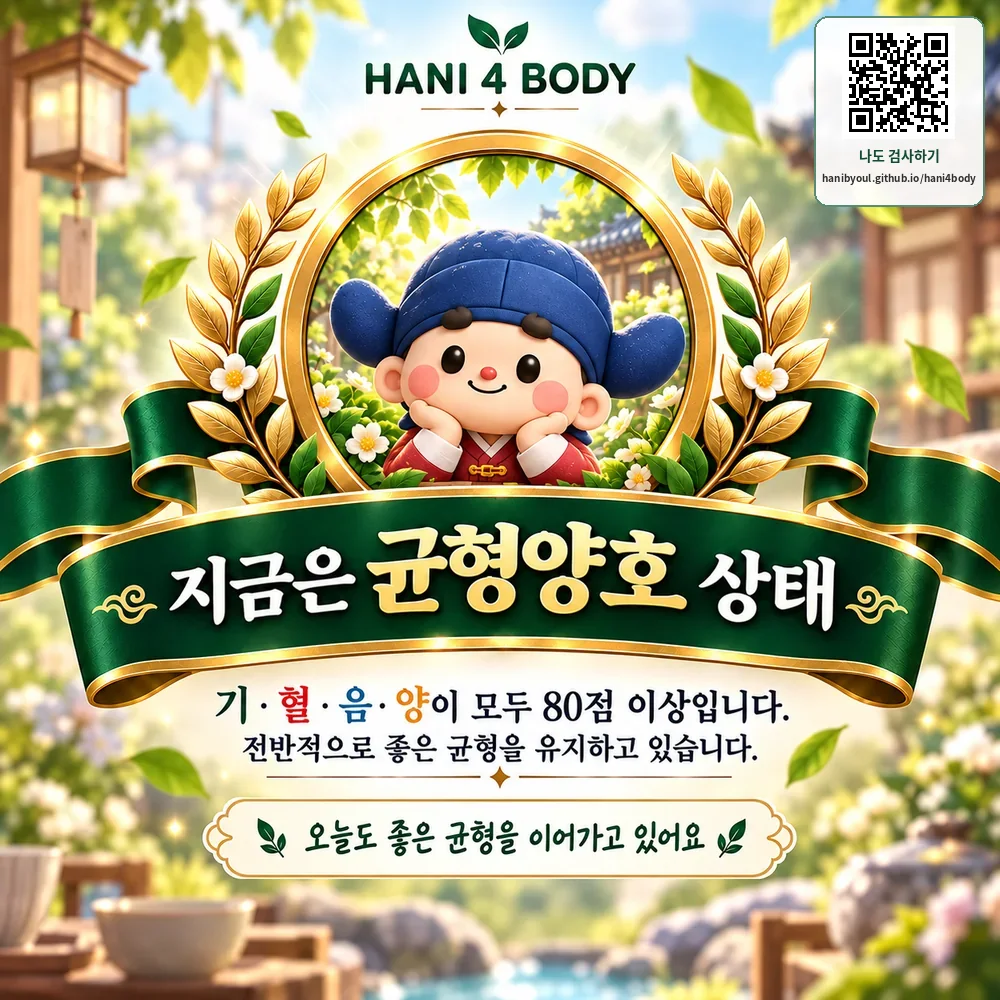
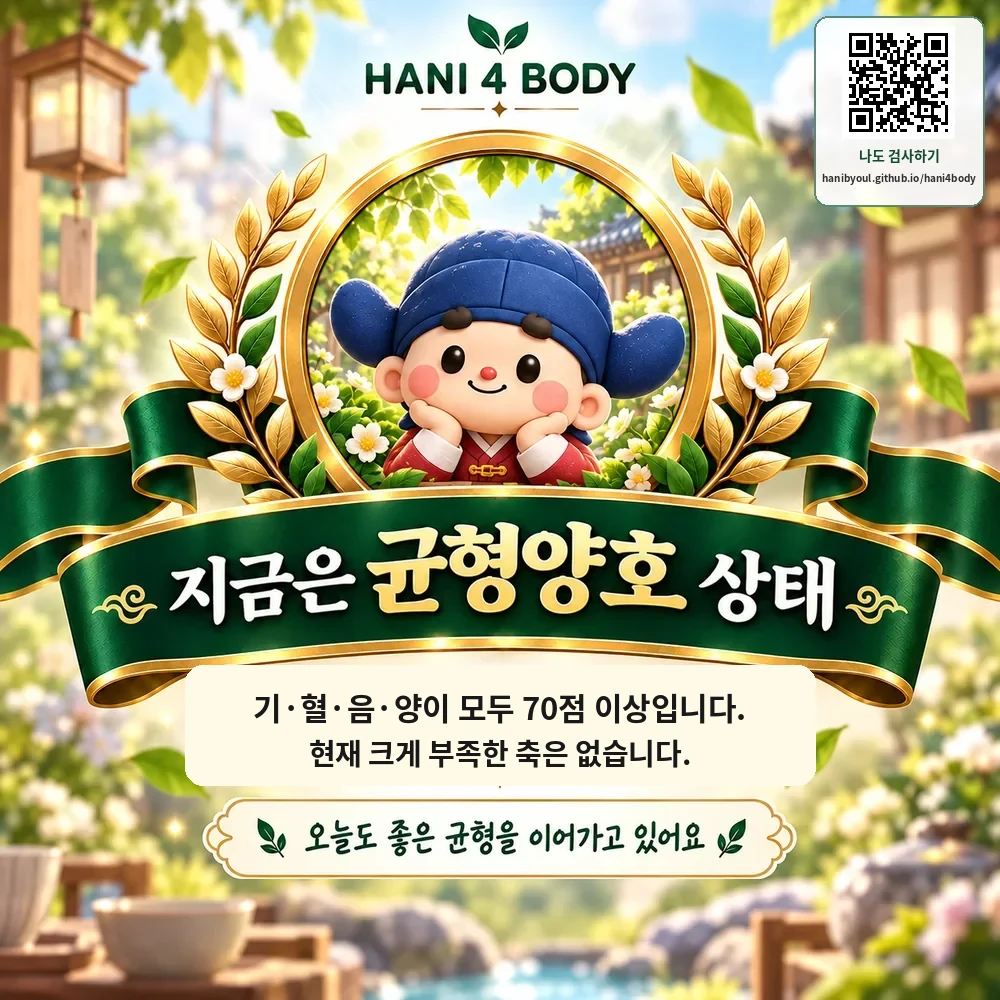
Add files via upload

Changed region(s): [[0.186, 0.651, 0.837, 0.806], [0.775, 0.713, 0.837, 0.806]]

diff --git a/index.html b/index.html
@@ -151,6 +151,26 @@ h3{font-size:18px;margin:18px 0 8px}
 .twoMin{display:inline-block;margin:10px auto 8px;padding:9px 17px;border-radius:999px;background:#151515;color:#fff;font-weight:900;font-size:16px}
 .quickNote{text-align:center;color:var(--muted);margin:8px auto 18px;line-height:1.6}
 .compactForm{margin-top:10px}.startHero{font-size:20px;padding:16px;margin-top:14px}
+
+.forceExplain{
+  margin:14px 0 18px;border:1px solid var(--line);border-radius:18px;background:#faf9f6;
+  padding:13px 15px;
+}
+.forceExplain summary{cursor:pointer;font-weight:900;font-size:15px}
+.forceExplainGrid{display:grid;grid-template-columns:1fr 1fr;gap:9px;margin-top:12px}
+.forceExplainItem{border-radius:14px;padding:11px 12px;font-size:13px;line-height:1.55;border:1px solid var(--line);background:#fff}
+.forceExplainItem b{display:block;font-size:15px;margin-bottom:3px}
+.forceExplainItem.qiE b{color:var(--qi)}
+.forceExplainItem.bloodE b{color:var(--blood)}
+.forceExplainItem.yinE b{color:var(--yin)}
+.forceExplainItem.yangE b{color:var(--yang)}
+.forceConceptNote{font-size:12px;line-height:1.55;color:var(--muted);margin:10px 2px 0}
+.resultAxisExplain{display:grid;grid-template-columns:1fr 1fr;gap:9px;margin:10px 0 4px}
+.resultAxisExplain .forceExplainItem{font-size:13px}
+@media(max-width:560px){
+  .forceExplainGrid,.resultAxisExplain{grid-template-columns:1fr}
+}
+
 .researchTeaser{margin-top:18px;padding:14px 16px;border:1px solid var(--line);border-radius:18px;background:#faf9f6;line-height:1.55}
 .researchTeaser details{margin-top:8px}.researchTeaser summary{cursor:pointer;font-weight:900}
 .compactPurpose{margin-top:12px}.compactDisclaimer{font-size:12px;line-height:1.55;margin-top:16px}
@@ -244,6 +264,17 @@ h3{font-size:18px;margin:18px 0 8px}
     <div class="twoMin">24문항 · 약 2분</div>
     <p class="quickNote">최근 2주 상태를 보는 검사입니다. <b>타고난 체질검사가 아닙니다.</b></p>
 
+    <details class="forceExplain">
+      <summary>기·혈·음·양이란?</summary>
+      <div class="forceExplainGrid">
+        <div class="forceExplainItem qiE"><b>기(氣) · 활력과 회복력</b>몸을 움직이고 버티게 하는 힘을 살펴봅니다.</div>
+        <div class="forceExplainItem bloodE"><b>혈(血) · 영양과 안정</b>몸을 적시고 영양하며 안정시키는 기반을 살펴봅니다.</div>
+        <div class="forceExplainItem yinE"><b>음(陰) · 촉촉함과 회복 자원</b>몸을 촉촉하고 안정되게 유지하는 자원을 살펴봅니다.</div>
+        <div class="forceExplainItem yangE"><b>양(陽) · 온기와 추진력</b>몸을 따뜻하게 하고 기능을 밀어주는 힘을 살펴봅니다.</div>
+      </div>
+      <div class="forceConceptNote">기·혈·음·양은 하나의 장기나 검사수치와 1:1로 대응되는 개념이 아니라, 여러 증상과 신체 상태를 종합해서 바라보는 한의학적 기능 개념입니다.</div>
+    </details>
+
     <div class="formRow compactForm">
       <div class="field">
         <label for="ageGroupSelect">연령대</label>
@@ -270,7 +301,7 @@ h3{font-size:18px;margin:18px 0 8px}
         <summary>이 검사는 어떻게 만들었나요? · 근거 보기</summary>
         <div class="purpose compactPurpose">
           HANI 4 BODY는 한의학의 기(氣)·혈(血)·음(陰)·양(陽) 관점에서 최근 상태를 살펴보도록 만든 대중용 자가점검 도구입니다.
-          질병 진단이나 기존 검증 설문을 그대로 복제한 검사는 아닙니다.
+          질병 진단이나 기존 검증 설문을 그대로 복제한 검사는 아닙니다. 흔하고 중복되는 증상은 영향력을 낮추고, 비교적 특징적인 증상은 조금 더 반영하는 가중 점수 방식을 사용합니다.
         </div>
         <ol>
           <li>Kim J, Ku B, Kim KH. <b>Validation of the Qi Blood Yin Yang Deficiency Questionnaire on chronic fatigue.</b> Chinese Medicine. 2016. <a href="https://link.springer.com/article/10.1186/s13020-016-0092-y" target="_blank">논문 보기</a></li>
@@ -334,9 +365,17 @@ h3{font-size:18px;margin:18px 0 8px}
       <div class="metric yang">양(陽)<b id="yangScore"></b><small id="yangLabel"></small></div>
     </div>
 
+    <div class="resultAxisExplain">
+      <div class="forceExplainItem qiE"><b>기(氣)</b>활력·체력·회복력의 경향</div>
+      <div class="forceExplainItem bloodE"><b>혈(血)</b>영양·윤택함·안정의 경향</div>
+      <div class="forceExplainItem yinE"><b>음(陰)</b>촉촉함·진정·회복 자원의 경향</div>
+      <div class="forceExplainItem yangE"><b>양(陽)</b>온기·활성·추진력의 경향</div>
+    </div>
+
     <div class="interpret">
       <strong>내 결과 해석</strong>
       <p class="resultSummary" id="resultSummary"></p>
+      <div class="muted" id="axisPlainSummary" style="margin-top:10px"></div>
     </div>
 
     <div class="compareBox hidden" id="populationBox">
@@ -442,8 +481,33 @@ const observationQuestions = [
 
 const symptomOptions = ['전혀 없다','드물다','가끔 있다','자주 있다','거의 항상 있다'];
 
+const symptomWeights = [
+  1.0, // 1  기: 쉽게 기운 빠짐
+  1.5, // 2  양: 손발 냉감 + 온열 호전
+  1.0, // 3  혈: 눈 피로
+  1.5, // 4  음: 야간 발한
+  1.5, // 5  기: 활동 시 숨참·힘 빠짐
+  1.0, // 6  혈: 저림·쥐
+  1.5, // 7  양: 찬 음식 후 불편·묽은 변
+  1.5, // 8  음: 손발·가슴 화끈거림
+  1.5, // 9  기: 낮의 이유 없는 땀
+  1.0, // 10 혈: 어지럼·아찔함
+  1.0, // 11 음: 입·목 건조
+  1.5, // 12 양: 아랫배·허리 냉감 + 온열 호전
+  0.5, // 13 기: 아침 개운하지 않음
+  0.5, // 14 혈: 입면곤란·꿈 많음
+  0.5, // 15 음: 야간 입·목 건조 (11번과 중복 완화)
+  1.0, // 16 양: 허리·무릎 시큰·무력
+  0.5, // 17 기: 평소 일에도 쉽게 지침 (1번과 중복 완화)
+  1.0, // 18 혈: 피부 건조·윤기 저하
+  1.0, // 19 음: 마른 변
+  0.5, // 20 양: 따뜻한 음식이 더 편함
+  1.0  // 21 기: 감기·몸살 후 회복 더딤
+];
+
+
 const typeMap = {
-  'BAL80':['지금은 균형양호 상태','기·혈·음·양이 모두 80점 이상입니다. 전반적으로 좋은 균형을 유지하고 있습니다.'],
+  'BAL80':['지금은 균형양호 상태','기·혈·음·양이 모두 70점 이상으로, 현재 크게 부족한 축은 없습니다.'],
   '0000':['지금은 풀밸런스 상태','기·혈·음·양이 모두 90점 이상인 매우 좋은 상태입니다.'],
   '1000':['지금은 저전력 상태','기운을 쓰고 회복하는 힘이 상대적으로 약한 편입니다.'],
   '0100':['지금은 빈 저장고 상태','혈(血)의 회복·영양 자원이 상대적으로 부족한 편입니다.'],
@@ -544,26 +608,31 @@ function obsSeverity(v){
 function axisResource(axis){
   let sum=0, weight=0;
   symptomQuestions.forEach((q,i)=>{
-    if(q.axis===axis){sum+=symptomAnswers[i]; weight+=1;}
+    if(q.axis===axis){
+      const w=symptomWeights[i] ?? 1;
+      sum+=symptomAnswers[i]*w;
+      weight+=w;
+    }
   });
   const pale=obsSeverity(observationAnswers.tonguePale);
   const teeth=obsSeverity(observationAnswers.teethmarks);
   const cracks=obsSeverity(observationAnswers.cracks);
 
-  if(axis==='blood' && pale!==null){sum+=pale; weight+=1;}
-  if(axis==='yin' && cracks!==null){sum+=cracks; weight+=1;}
+  // 혀 관찰은 보조 소견으로 반영
+  if(axis==='blood' && pale!==null){sum+=pale*1.5; weight+=1.5;}
+  if(axis==='yin' && cracks!==null){sum+=cracks*1.0; weight+=1.0;}
   if(axis==='qi' && teeth!==null){sum+=teeth*0.5; weight+=0.5;}
   if(axis==='yang' && teeth!==null){sum+=teeth*0.5; weight+=0.5;}
 
-  const avg=sum/weight;
+  const avg=weight ? sum/weight : 0;
   return Math.max(0,Math.min(100,Math.round(100-(avg/4*100))));
 }
 function level(score){
-  if(score>=90)return '매우 충분';
+  if(score>=90)return '매우 양호';
   if(score>=80)return '양호';
-  if(score>=65)return '다소 부족';
-  if(score>=50)return '부족한 편';
-  return '많이 부족';
+  if(score>=70)return '약간 낮음';
+  if(score>=60)return '부족 경향';
+  return '뚜렷한 부족 경향';
 }
 function prettyName(key){
   return {qi:'기',blood:'혈',yin:'음',yang:'양'}[key];
@@ -729,9 +798,28 @@ function formatExamDateShort(iso){
 function typeKeyFromScores(s){
   const vals=[Number(s.qi),Number(s.blood),Number(s.yin),Number(s.yang)];
   if(vals.every(v=>v>=90)) return '0000';
-  if(vals.every(v=>v>=80)) return 'BAL80';
-  const low=x=>x<80?'1':'0';
-  return low(vals[0])+low(vals[1])+low(vals[2])+low(vals[3]);
+  if(vals.every(v=>v>=70)) return 'BAL80';
+
+  const low=x=>x<70?'1':'0';
+  let key=low(vals[0])+low(vals[1])+low(vals[2])+low(vals[3]);
+
+  // '올다운'은 매우 심한 경우에만 사용:
+  // 네 축이 모두 40점 이하이고, 네 축 평균이 35점 미만일 때만
+  if(key==='1111'){
+    const mean=vals.reduce((a,b)=>a+b,0)/4;
+    const isAllDown=vals.every(v=>v<=40) && mean<35;
+
+    // 위 조건이 아니면 과도한 '올다운' 표현을 피하고
+    // 가장 낮은 두 축의 기존 조합형으로 표현
+    if(!isAllDown){
+      const order=vals.map((v,i)=>({v,i})).sort((a,b)=>a.v-b.v);
+      const bits=['0','0','0','0'];
+      bits[order[0].i]='1';
+      bits[order[1].i]='1';
+      key=bits.join('');
+    }
+  }
+  return key;
 }
 function typeNameFromRecord(r){
   const key=typeKeyFromScores(r);
@@ -808,15 +896,7 @@ function finish(){
     yang:axisResource('yang')
   };
   const vals=[scores.qi,scores.blood,scores.yin,scores.yang];
-  let key;
-  if(vals.every(v=>v>=90)){
-    key='0000';
-  }else if(vals.every(v=>v>=80)){
-    key='BAL80';
-  }else{
-    const low=x=>x<80?'1':'0';
-    key=low(scores.qi)+low(scores.blood)+low(scores.yin)+low(scores.yang);
-  }
+  const key=typeKeyFromScores(scores);
   const [name,line]=typeMap[key];
   currentResultKey = key;
   currentBadgeUrl = badgeMap[key];
@@ -869,11 +949,11 @@ function finish(){
   }
 
   function statePhrase(score){
-    if(score>=90) return '매우 충분한 편';
+    if(score>=90) return '매우 양호한 편';
     if(score>=80) return '양호한 편';
-    if(score>=65) return '다소 부족한 편';
-    if(score>=50) return '부족한 편';
-    return '많이 부족한 편';
+    if(score>=70) return '약간 낮은 편';
+    if(score>=60) return '부족 경향';
+    return '뚜렷한 부족 경향';
   }
 
   const bestName = prettyName(best[0]);
@@ -888,28 +968,28 @@ function finish(){
   if(currentResultKey==='0000'){
     summary = '기·혈·음·양 네 가지가 모두 90점 이상입니다. 현재는 네 가지 힘이 매우 충실한 풀밸런스 상태입니다.';
   }else if(currentResultKey==='BAL80'){
-    summary = '기·혈·음·양 네 가지가 모두 80점 이상입니다. 현재는 전반적으로 좋은 균형을 유지하고 있습니다.';
+    summary = '기·혈·음·양 네 가지가 모두 70점 이상입니다. 뚜렷하게 부족한 축은 없으며, 70점대가 있다면 생활상태에 따라 조금 흔들릴 수 있는 정도로 봅니다.';
   }else{
 
   const allScores = Object.values(scores);
-  const under80 = allScores.filter(v => v < 80).length;
-  const under35 = allScores.filter(v => v < 35).length;
+  const under70 = allScores.filter(v => v < 70).length;
+  const under60 = allScores.filter(v => v < 60).length;
 
   const weakPair = pairNames(weakName, secondWeakName);
 
-  if (under80 === 4) {
-    if (under35 >= 2) {
+  if (under70 === 4) {
+    if (under60 >= 2) {
       summary = `기·혈·음·양 네 가지가 모두 부족한 편입니다. 특히 ${weakPair} 점수가 더 낮게 나타나, 전반적인 회복력과 균형을 함께 살펴볼 필요가 있습니다.`;
     } else {
       summary = `기·혈·음·양 네 가지가 모두 부족한 편입니다. 한두 부분만의 문제라기보다, 전반적으로 몸의 여유와 회복력이 떨어진 상태로 볼 수 있습니다.`;
     }
-  } else if (under80 === 3) {
+  } else if (under70 === 3) {
     summary = `${withTopic(bestName)} 비교적 유지되고 있지만, 나머지 세 가지 요소는 부족한 편입니다. 특히 ${weakPair} 점수가 더 낮아 전반적인 균형을 함께 살펴보는 것이 좋겠습니다.`;
-  } else if (under80 === 2) {
+  } else if (under70 === 2) {
     summary = `${withTopic(bestName)} ${bestState}인 반면, ${weakPair} 모두 부족한 편입니다. 두 요소가 함께 허한 경향을 보여 관련된 불편이 같이 나타날 수 있습니다.`;
-  } else if (under80 === 1) {
+  } else if (under70 === 1) {
     summary = `${withTopic(bestName)} ${bestState}이고 다른 요소들도 대체로 유지되고 있지만, ${withTopic(weakName)} ${weakState}입니다. ${weakName} 쪽을 우선 살펴보는 것이 좋겠습니다.`;
-  } else if (weakest[1] >= 65) {
+  } else if (weakest[1] >= 70) {
     if (Math.abs(best[1] - weakest[1]) <= 8) {
       summary = `기·혈·음·양 네 가지가 전반적으로 고르게 유지되고 있습니다. 현재는 뚜렷하게 허한 부분이 두드러지지 않습니다.`;
     } else {
@@ -923,6 +1003,26 @@ function finish(){
 
   document.getElementById('resultSummary').textContent=summary;
 
+  function axisPlain(k,score){
+    const defs={
+      qi:['기(氣)','활력과 회복력'],
+      blood:['혈(血)','영양과 안정'],
+      yin:['음(陰)','촉촉함과 회복 자원'],
+      yang:['양(陽)','온기와 추진력']
+    };
+    const [name,meaning]=defs[k];
+    let phrase='';
+    if(score>=90) phrase='매우 양호합니다';
+    else if(score>=80) phrase='양호합니다';
+    else if(score>=70) phrase='조금 낮지만 크게 부족한 수준은 아닙니다';
+    else if(score>=60) phrase='부족 경향이 보입니다';
+    else phrase='뚜렷한 부족 경향이 보입니다';
+    return `<b>${name} ${score}점</b> — ${meaning}이 ${phrase}.`;
+  }
+  document.getElementById('axisPlainSummary').innerHTML=
+    ['qi','blood','yin','yang'].map(k=>axisPlain(k,scores[k])).join('<br>');
+
+
   const resultTimestamp=new Date().toISOString();
   const resultRecord={
     ageGroup:userAgeGroup,sex:userSex,qi:scores.qi,blood:scores.blood,yin:scores.yin,yang:scores.yang,
@@ -932,10 +1032,10 @@ function finish(){
   submitAndRenderPopulationStats(resultRecord);
   renderFriendComparison(scores,key);
 
-  const below80=Object.values(scores).filter(v=>v<80).length;
-  const below65=Object.values(scores).filter(v=>v<65).length;
+  const below70=Object.values(scores).filter(v=>v<70).length;
+  const below60=Object.values(scores).filter(v=>v<60).length;
   const cta=document.getElementById('clinicCta');
-  if(below65>=1 || below80>=2){
+  if(below60>=1 || below70>=2){
     cta.className='cta strong';
     cta.innerHTML=`<b>🏥 비슷한 불편이 반복된다면 가까운 “동네한의원”에서 한번 살펴보세요.</b><br>
     여러 요소에서 부족 경향이 나타났습니다. 한의원에서 수면·소화·한열·생활상태·설진 등을 함께 살펴보는 한의학적 평가를 받아볼 수 있습니다.
@@ -943,7 +1043,7 @@ function finish(){
       <a href="https://map.naver.com/p/search/%ED%95%9C%EC%9D%98%EC%9B%90" target="_blank" rel="noopener">네이버지도에서 찾기</a>
       <a href="https://map.kakao.com/?q=%ED%95%9C%EC%9D%98%EC%9B%90" target="_blank" rel="noopener">카카오맵에서 찾기</a>
     </div>`;
-  }else if(below80===1){
+  }else if(below70===1){
     cta.className='cta';
     cta.innerHTML=`<b>한 가지 요소가 상대적으로 낮게 나타났습니다.</b><br>
     생활 상태를 먼저 돌아보고, 불편이 지속되거나 반복된다면 가까운 “동네한의원”에서 상담해보세요.

diff --git a/README.md b/README.md
@@ -1,12 +1,53 @@
-# HANI 4 BODY 웹 최적화 배포본
+# HANI 4 BODY
 
-GitHub 저장소 최상위에 아래 두 항목을 올리세요.
+HANI 4 BODY는 최근 2주 동안의 몸 상태를 한의학의 기(氣)·혈(血)·음(陰)·양(陽) 관점에서 살펴보는 대중용 탐색적 자가점검 웹앱입니다.
 
-- index.html
-- assets/ 폴더
+- 기(氣): 활력과 회복력
+- 혈(血): 영양과 안정
+- 음(陰): 촉촉함과 회복 자원
+- 양(陽): 온기와 추진력
 
-뱃지 16장은 WebP로 최적화되어 원본 PNG보다 훨씬 작습니다.
-공개 주소는 그대로 유지됩니다:
+기·혈·음·양은 특정 장기나 하나의 검사수치와 1:1로 대응되는 개념이 아니라, 여러 증상과 신체 상태를 종합해 바라보는 한의학적 기능 개념입니다.
+
+## 현재 점수 방식
+
+문항의 의미와 중복성을 고려해 가중치를 적용합니다.
+
+- 흔하거나 다른 원인으로도 쉽게 나타나는 증상: 낮은 가중치
+- 비교적 기·혈·음·양의 특징을 잘 보여주는 증상: 높은 가중치
+- 설질 창백, 치흔, 설열은 보조 관찰 소견으로 반영
+
+현재 결과 분류는 다음과 같습니다.
+
+- 네 축 모두 90점 이상: 풀밸런스
+- 네 축 모두 70점 이상: 균형양호
+- 70점 미만인 축: 부족 경향 조합으로 상태 표현
+- 네 축이 모두 70점 미만이어도 곧바로 '올다운'으로 분류하지 않고 가장 낮은 축을 중심으로 해석
+- '올다운'은 네 축이 모두 40점 이하이면서 네 축 평균이 35점 미만일 때만 사용
+
+이 기준은 임상 진단 기준이 아니라 HANI 4 BODY의 탐색적 자기점검 및 시각화를 위한 운영 기준이며, 향후 실제 참여자 데이터와 타당도 검토에 따라 조정될 수 있습니다.
+
+## 웹앱
+
 https://hanibyoul.github.io/hani4body/
 
-업로드 후 GitHub Pages 반영까지 1~3분 정도 기다린 뒤 새로고침하세요.
+## 개인정보 원칙
+
+개인 검사 기록은 현재 브라우저의 localStorage에 저장됩니다. 이름, 전화번호, 주민등록번호, 정확한 생년월일 등 직접 식별정보는 사용하지 않는 방향을 원칙으로 합니다.
+
+## 참고 연구
+
+1. Kim J, Ku B, Kim KH. Validation of the Qi Blood Yin Yang Deficiency Questionnaire on chronic fatigue. Chinese Medicine. 2016.
+   https://link.springer.com/article/10.1186/s13020-016-0092-y
+2. Kim J, Kim KH. Protocol for evaluation and validation of Qi Blood Yin Yang deficiency questionnaire. Integr Med Res. 2015.
+   https://pmc.ncbi.nlm.nih.gov/articles/PMC5481822/
+3. Lee S et al. Development and validation of Yin-Deficiency Questionnaire. Am J Chin Med. 2007.
+   https://pubmed.ncbi.nlm.nih.gov/17265546/
+4. Japanese CCMQ validation.
+   https://www.jstage.jst.go.jp/article/kampomed/59/6/59_6_783/_article/-char/en
+5. TCM Constitution Identification Based on Objective Facial and Tongue Features. 2022.
+   https://pmc.ncbi.nlm.nih.gov/articles/PMC8983216/
+
+## 안내
+
+이 설문은 의료를 대신할 수 없으며 질병의 진단·치료 결정을 위한 검사가 아닙니다. 건강과 질병에 대한 상담이 필요하면 가까운 동네한의원 또는 적절한 의료기관을 방문하시기 바랍니다.
